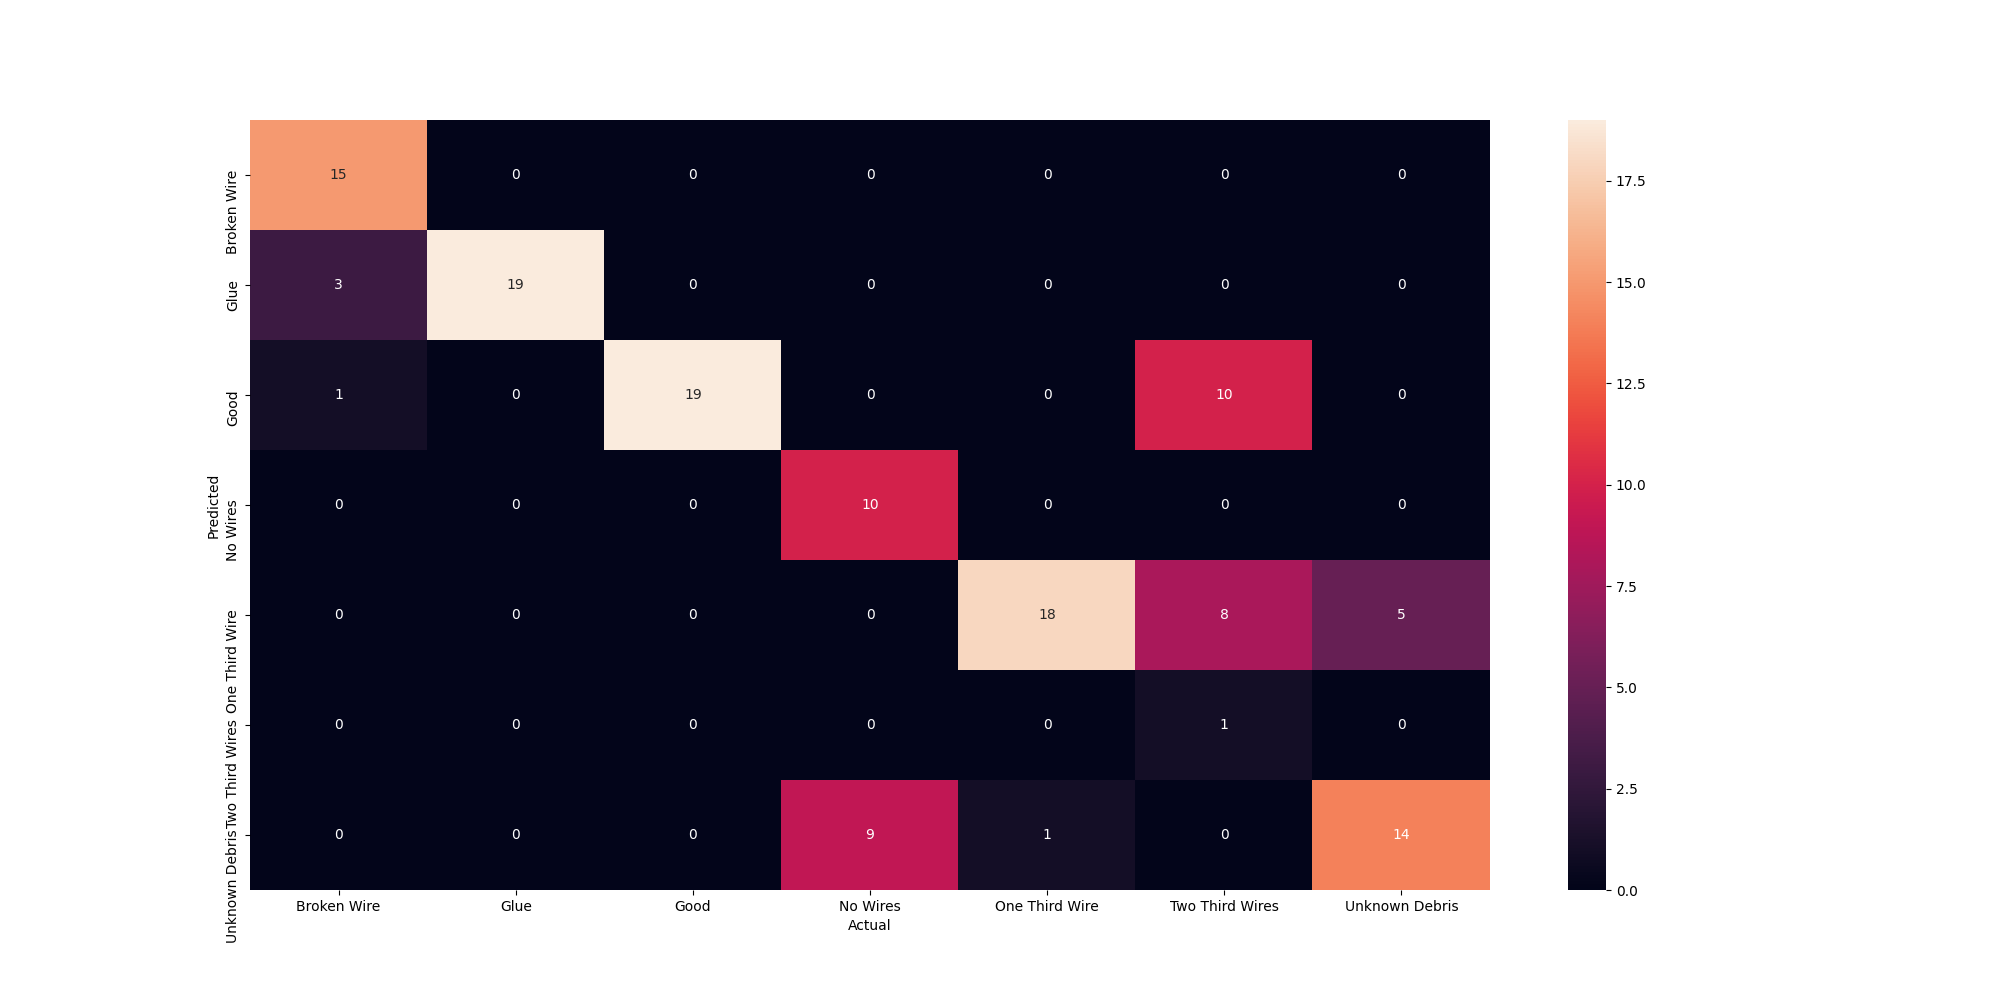
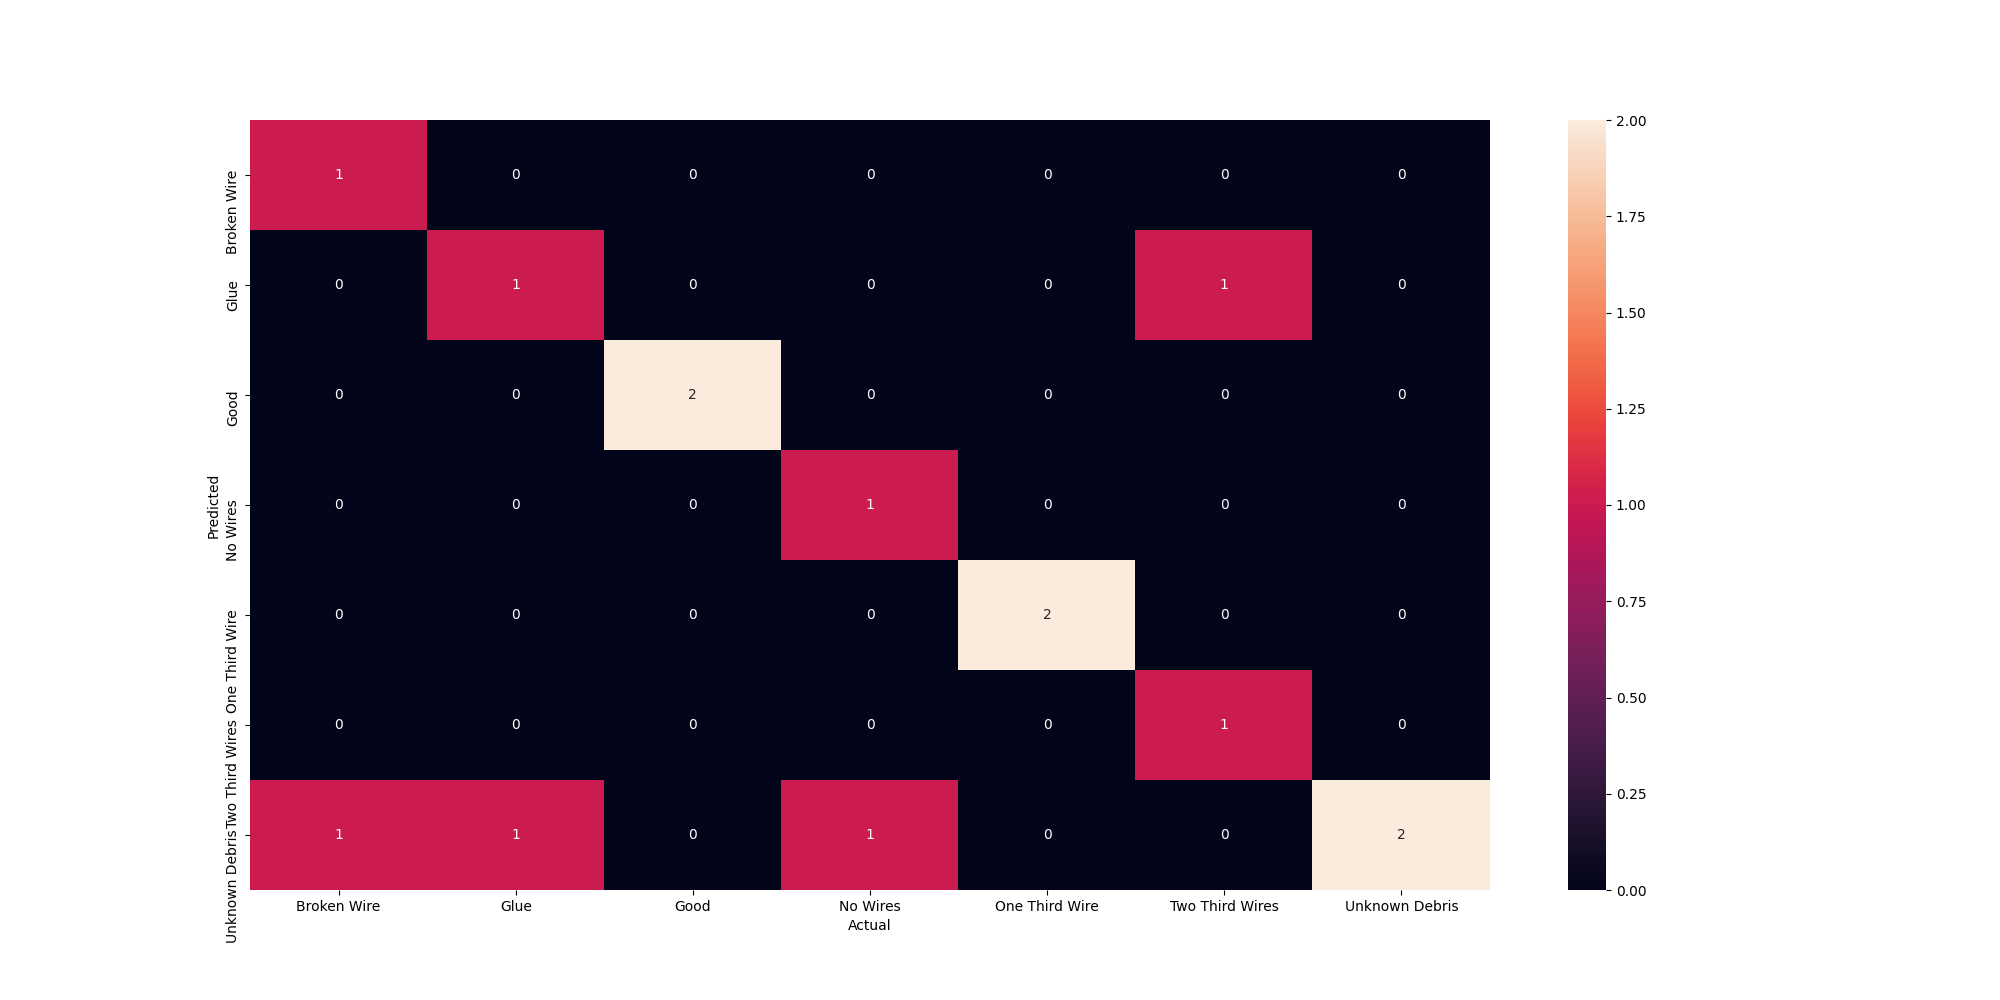
Dynamic input shape #21, softmax prediction layer #19

diff --git a/test_model.py b/test_model.py
@@ -17,20 +17,23 @@ from scripts.find_most_recent import find_most_recent
 subprocess.run("find . -name '.DS_Store' -type f -delete", shell=True)
 test_data_path = "datasets/testing/"
 class_names = ['Broken Wire', 'Glue', 'Good', 'No Wires', 'One Third Wire', 'Two Third Wires', 'Unknown Debris']
-now = dt.datetime.now().strftime("%m_%d_%I:%M:%S%p")
 
-def main(make_notes=True, class_names=class_names, test_data_path=test_data_path, model_name=find_most_recent('models')):
+now = dt.datetime.now().strftime("%m_%d_%I:%M:%S%p")
+MOST_RECENT_MODEL = find_most_recent('models')
+CUSTOM_MODEL_NAME = "05_05_7:24:21PM"
+
+def main(make_notes=True, class_names=class_names, test_data_path=test_data_path, model_name=MOST_RECENT_MODEL, size=(480,480)):
 
   # loads model
-  model = keras.models.load_model(f"models/{model_name}") 
+  model = keras.models.load_model(f"models/{model_name}")
 
   # for confusion matrix
-  tested_images = test_all_imgs(model, class_names, test_data_path) 
+  tested_images = test_all_imgs(model, class_names, test_data_path, size) 
   df = pd.DataFrame(tested_images, columns = ['score','predicted','actual','confidence','path'])
   plot_confusion_matrix(df,fig_name=f"notes/imgs/{model_name}", show=False)  
 
   # for random sampleing 
-  random_test_plot(model, class_names, test_data_path, model_name=model_name, show=False)
+  random_test_plot(model, class_names, test_data_path, model_name, size, show=False)
 
   # for calulating results
   calculate_results(df, class_names)
@@ -133,7 +136,7 @@ def plot_image(predictions_array, class_names, img_array):
   Itterates through all test images, prints predictions, confidence levels 
   and wheather it actually  predicted it correctly it should return a pandas dataframe
   """
-def test_all_imgs(model, class_names, test_data_path):
+def test_all_imgs(model, class_names, test_data_path, size):
 
   rubric = {
   'broken_wire': 'Broken Wire', 
@@ -154,8 +157,7 @@ def test_all_imgs(model, class_names, test_data_path):
   # Makes preditctions of every image in the data paths list
   for count, img_path in enumerate(data_paths):
     temp_data = []
-    size = (480, 480)
-    data = np.ndarray(shape=(1, 480, 480, 3), dtype=np.float32)
+    data = np.ndarray(shape=(1, size[0], size[1], 3), dtype=np.float32)
     image = Image.open(img_path)
     image = ImageOps.fit(image, size, Image.ANTIALIAS)
     image_array = np.asarray(image)
@@ -189,7 +191,8 @@ def test_all_imgs(model, class_names, test_data_path):
 
 
 """ Builds the plot with images of random images and one image of a broken wire """
-def random_test_plot(model, class_names, test_data_path, model_name, show=False):
+def random_test_plot(model, class_names, test_data_path, model_name, size, show=False):
+    probability_model = tf.keras.Sequential([model, tf.keras.layers.Softmax()])
     data_paths = []
     for root, dirs, files in os.walk(test_data_path):
         for name in files:
@@ -199,16 +202,16 @@ def random_test_plot(model, class_names, test_data_path, model_name, show=False)
     num_rows = 3
     num_cols = 3
     num_images = num_rows*num_cols
-    size = (480, 480)
+
     plt.figure(figsize=(2*2*num_cols, 2*num_rows))
     for i, img_path in enumerate(random_test_images):
-        data = np.ndarray(shape=(1, 480, 480, 3), dtype=np.float32)
+        data = np.ndarray(shape=(1, size[0], size[1], 3), dtype=np.float32)
         image = Image.open(img_path)
         image = ImageOps.fit(image, size, Image.ANTIALIAS)
         image_array = np.asarray(image)
         normalized_image_array = (image_array.astype(np.float32) / 127.0) - 1
         data[0] = normalized_image_array
-        prediction = model.predict(data)
+        prediction = probability_model.predict(data)
 
         plt.subplot(num_rows, 2*num_cols, 2*i+1)
         plot_image(prediction[0], class_names, image_array)

diff --git a/notes/06_01_5:55:44PM.md b/notes/06_01_5:55:44PM.md
@@ -1,0 +1,93 @@
+## 06_01_5:55:44PM 
+
+## Stats 
+```
+Total Tests: 14
+correct predictions: 2
+incorrect predictions: 12
+Percentage correct: 14.29%
+=======================
+Most missed predictions
+Broken Wire:  2
+Glue:  2
+Good:  2
+No Wires:  2
+One Third Wire:  2
+Unknown Debris:  2
+``` 
+### Model Summary 
+```Model: "sequential"
+_________________________________________________________________
+Layer (type)                 Output Shape              Param #   
+=================================================================
+rescaling (Rescaling)        (None, 480, 480, 3)       0         
+_________________________________________________________________
+conv2d (Conv2D)              (None, 480, 480, 16)      448       
+_________________________________________________________________
+conv2d_1 (Conv2D)            (None, 480, 480, 16)      2320      
+_________________________________________________________________
+max_pooling2d (MaxPooling2D) (None, 240, 240, 16)      0         
+_________________________________________________________________
+conv2d_2 (Conv2D)            (None, 240, 240, 16)      2320      
+_________________________________________________________________
+conv2d_3 (Conv2D)            (None, 240, 240, 16)      2320      
+_________________________________________________________________
+max_pooling2d_1 (MaxPooling2 (None, 120, 120, 16)      0         
+_________________________________________________________________
+conv2d_4 (Conv2D)            (None, 120, 120, 32)      4640      
+_________________________________________________________________
+conv2d_5 (Conv2D)            (None, 120, 120, 32)      9248      
+_________________________________________________________________
+batch_normalization (BatchNo (None, 120, 120, 32)      128       
+_________________________________________________________________
+max_pooling2d_2 (MaxPooling2 (None, 60, 60, 32)        0         
+_________________________________________________________________
+conv2d_6 (Conv2D)            (None, 60, 60, 32)        9248      
+_________________________________________________________________
+conv2d_7 (Conv2D)            (None, 60, 60, 32)        9248      
+_________________________________________________________________
+max_pooling2d_3 (MaxPooling2 (None, 30, 30, 32)        0         
+_________________________________________________________________
+conv2d_8 (Conv2D)            (None, 30, 30, 32)        9248      
+_________________________________________________________________
+conv2d_9 (Conv2D)            (None, 30, 30, 32)        9248      
+_________________________________________________________________
+max_pooling2d_4 (MaxPooling2 (None, 15, 15, 32)        0         
+_________________________________________________________________
+conv2d_10 (Conv2D)           (None, 15, 15, 32)        9248      
+_________________________________________________________________
+conv2d_11 (Conv2D)           (None, 15, 15, 32)        9248      
+_________________________________________________________________
+max_pooling2d_5 (MaxPooling2 (None, 7, 7, 32)          0         
+_________________________________________________________________
+conv2d_12 (Conv2D)           (None, 7, 7, 32)          9248      
+_________________________________________________________________
+conv2d_13 (Conv2D)           (None, 7, 7, 32)          9248      
+_________________________________________________________________
+max_pooling2d_6 (MaxPooling2 (None, 3, 3, 32)          0         
+_________________________________________________________________
+conv2d_14 (Conv2D)           (None, 3, 3, 64)          18496     
+_________________________________________________________________
+max_pooling2d_7 (MaxPooling2 (None, 1, 1, 64)          0         
+_________________________________________________________________
+flatten (Flatten)            (None, 64)                0         
+_________________________________________________________________
+dense (Dense)                (None, 128)               8320      
+_________________________________________________________________
+dropout (Dropout)            (None, 128)               0         
+_________________________________________________________________
+dense_1 (Dense)              (None, 32)                4128      
+_________________________________________________________________
+dense_2 (Dense)              (None, 32)                1056      
+_________________________________________________________________
+dense_3 (Dense)              (None, 7)                 231       
+=================================================================
+Total params: 127,639
+Trainable params: 127,575
+Non-trainable params: 64
+_________________________________________________________________
+``` 
+### Confusion Matrix 
+![Confusion Matrix](imgs/06_01_5:55:44PM.png) 
+### Random Samples 
+![Random Samples](imgs/rand_samples_06_01_5:55:44PM.png) 

diff --git a/notes/05_05_7:24:21PM.md b/notes/05_05_7:24:21PM.md
@@ -1,27 +1,17 @@
 ## 05_05_7:24:21PM 
-Transfer learning with mobile net mobilenet_v2 
-
-This was done with the code seen in `other_transfer_learning.py`
-From this tutorail
-https://github.com/tensorflow/docs/blob/master/site/en/tutorials/images/transfer_learning_with_hub.ipynb
-
-```python
-https://github.com/tensorflow/docs/blob/master/site/en/tutorials/images/transfer_learning_with_hub.ipynb
-```
 
 ## Stats 
 ```
-Total Tests: 133
-correct predictions: 96
-incorrect predictions: 37
-Percentage correct: 72.18%
+Total Tests: 14
+correct predictions: 10
+incorrect predictions: 4
+Percentage correct: 71.43%
 =======================
 Most missed predictions
-Broken Wire:  4
-No Wires:  9
-One Third Wire:  1
-Two Third Wires:  18
-Unknown Debris:  5
+Broken Wire:  1
+Glue:  1
+No Wires:  1
+Two Third Wires:  1
 ``` 
 ### Model Summary 
 ```Model: "sequential_1"
@@ -41,19 +31,3 @@ _________________________________________________________________
 ![Confusion Matrix](imgs/05_05_7:24:21PM.png) 
 ### Random Samples 
 ![Random Samples](imgs/rand_samples_05_05_7:24:21PM.png) 
-### Dataframe predictions 
-```     score        predicted           actual  confidence                                    path
-0     True   One Third Wire   One Third Wire    2.466289  one_thirds_wires/augmented_image_3.jpg
-1    False   Unknown Debris   One Third Wire    0.302970  one_thirds_wires/augmented_image_2.jpg
-2     True   One Third Wire   One Third Wire    2.466289  one_thirds_wires/augmented_image_1.jpg
-3     True   One Third Wire   One Third Wire    1.936762  one_thirds_wires/augmented_image_5.jpg
-4     True   One Third Wire   One Third Wire    1.933097  one_thirds_wires/augmented_image_4.jpg
-..     ...              ...              ...         ...                                     ...
-128   True  Two Third Wires  Two Third Wires    1.152542  two_thirds_wire/augmented_image_12.jpg
-129  False             Good  Two Third Wires   -0.009690  two_thirds_wire/augmented_image_16.jpg
-130  False   One Third Wire  Two Third Wires    2.733370  two_thirds_wire/augmented_image_17.jpg
-131  False   One Third Wire  Two Third Wires    0.137547  two_thirds_wire/augmented_image_15.jpg
-132  False   One Third Wire  Two Third Wires    0.844969  two_thirds_wire/augmented_image_14.jpg
-
-[133 rows x 5 columns]
-```
